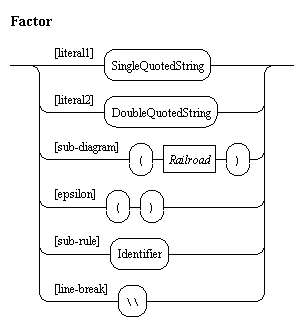
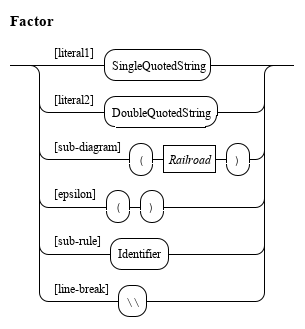
#63 Use anti-aliasing for the rail diagram generator.

diff --git a/common/org.eclipse.escet.common.raildiagrams/src/org/eclipse/escet/common/raildiagrams/RailRoadDiagramApplication.java b/common/org.eclipse.escet.common.raildiagrams/src/org/eclipse/escet/common/raildiagrams/RailRoadDiagramApplication.java
@@ -17,6 +17,7 @@ import static org.eclipse.escet.common.java.Lists.list;
 import static org.eclipse.escet.common.java.Strings.fmt;
 
 import java.awt.Graphics2D;
+import java.awt.RenderingHints;
 import java.awt.image.BufferedImage;
 import java.io.File;
 import java.io.IOException;
@@ -133,6 +134,8 @@ public class RailRoadDiagramApplication extends Application<IOutputComponent> {
 
                 image = new BufferedImage(width, height, BufferedImage.TYPE_INT_RGB);
                 gd = image.createGraphics();
+                gd.setRenderingHint(RenderingHints.KEY_ANTIALIASING, RenderingHints.VALUE_ANTIALIAS_ON);
+                gd.setRenderingHint(RenderingHints.KEY_TEXT_ANTIALIASING, RenderingHints.VALUE_TEXT_ANTIALIAS_ON);
                 gd.setColor(config.getRgbColor("diagram.background.color"));
                 gd.fillRect(0, 0, width, height);
             }
